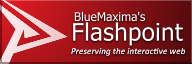
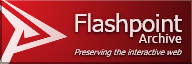
Move to root + more changes

Changed region(s): [[0.3438, 0.1875, 0.9688, 0.9062]]

diff --git a/Controllers/Platforms.php b/Controllers/Platforms.php
@@ -11,9 +11,9 @@ class Platforms extends Controller
      */
     public function process(array $args): bool
     {
-        self::$data['layout_title'] = 'Supported Platforms - BlueMaxima\'s Flashpoint';
-        self::$data['layout_description'] = 'A webgame preservation project and archive.';
-        self::$data['layout_keywords'] = 'Flash, Shockwave, HTML5, Unity, Webgame Preservation, Flash Game Archive, BlueMaxima, DarkMoe';
+        self::$data['layout_title'] = 'Supported Platforms - Flashpoint Archive';
+        self::$data['layout_description'] = 'A community effort to preserve games and animations from the web.';
+        self::$data['layout_keywords'] = 'Flash, Shockwave, HTML5, Unity, Archive, Webgame Preservation, Flash Game Archive, BlueMaxima, DarkMoe';
 
         self::$views[] = 'platforms';
         self::$dictionaries[] = 'platforms';

diff --git a/Controllers/Faq.php b/Controllers/Faq.php
@@ -11,9 +11,9 @@ class Faq extends Controller
      */
     public function process(array $args): bool
     {
-        self::$data['layout_title'] = 'Frequently Asked Questions - BlueMaxima\'s Flashpoint';
-        self::$data['layout_description'] = 'A webgame preservation project and archive.';
-        self::$data['layout_keywords'] = 'Flash, Shockwave, HTML5, Unity, Webgame Preservation, Flash Game Archive, BlueMaxima, DarkMoe';
+        self::$data['layout_title'] = 'Frequently Asked Questions - Flashpoint Archive';
+        self::$data['layout_description'] = 'A community effort to preserve games and animations from the web.';
+        self::$data['layout_keywords'] = 'Flash, Shockwave, HTML5, Unity, Archive, Webgame Preservation, Flash Game Archive, BlueMaxima, DarkMoe';
 
         self::$views[] = 'faq';
         self::$dictionaries[] = 'faq';

diff --git a/Controllers/Downloads.php b/Controllers/Downloads.php
@@ -11,9 +11,9 @@ class Downloads extends Controller
      */
     public function process(array $args): bool
     {
-        self::$data['layout_title'] = 'Downloads - BlueMaxima\'s Flashpoint';
-        self::$data['layout_description'] = 'A webgame preservation project and archive.';
-        self::$data['layout_keywords'] = 'Flash, Shockwave, HTML5, Unity, Webgame Preservation, Flash Game Archive, BlueMaxima, DarkMoe';
+        self::$data['layout_title'] = 'Downloads - Flashpoint Archive';
+        self::$data['layout_description'] = 'A community effort to preserve games and animations from the web.';
+        self::$data['layout_keywords'] = 'Flash, Shockwave, HTML5, Unity, Archive, Webgame Preservation, Flash Game Archive, BlueMaxima, DarkMoe';
 
         self::$views[] = 'downloads';
         self::$dictionaries[] = 'downloads';

diff --git a/Controllers/Branding.php b/Controllers/Branding.php
@@ -11,9 +11,9 @@ class Branding extends Controller
      */
     public function process(array $args): bool
     {
-        self::$data['layout_title'] = 'Branding - BlueMaxima\'s Flashpoint';
-        self::$data['layout_description'] = 'A webgame preservation project and archive.';
-        self::$data['layout_keywords'] = 'Flash, Shockwave, HTML5, Unity, Webgame Preservation, Flash Game Archive, BlueMaxima, DarkMoe';
+        self::$data['layout_title'] = 'Branding - Flashpoint Archive';
+        self::$data['layout_description'] = 'A community effort to preserve games and animations from the web.';
+        self::$data['layout_keywords'] = 'Flash, Shockwave, HTML5, Unity, Archive, Webgame Preservation, Flash Game Archive, BlueMaxima, DarkMoe';
 
         self::$views[] = 'branding';
         self::$dictionaries[] = 'branding';

diff --git a/Controllers/Source.php b/Controllers/Source.php
@@ -11,9 +11,9 @@ class Source extends Controller
      */
     public function process(array $args): bool
     {
-        self::$data['layout_title'] = 'Source Code - BlueMaxima\'s Flashpoint';
-        self::$data['layout_description'] = 'A webgame preservation project and archive.';
-        self::$data['layout_keywords'] = 'Flash, Shockwave, HTML5, Unity, Webgame Preservation, Flash Game Archive, BlueMaxima, DarkMoe';
+        self::$data['layout_title'] = 'Source Code - Flashpoint Archive';
+        self::$data['layout_description'] = 'A community effort to preserve games and animations from the web.';
+        self::$data['layout_keywords'] = 'Flash, Shockwave, HTML5, Unity, Archive, Webgame Preservation, Flash Game Archive, BlueMaxima, DarkMoe';
 
         self::$views[] = 'source';
         self::$dictionaries[] = 'source';

diff --git a/Controllers/Contact.php b/Controllers/Contact.php
@@ -11,9 +11,9 @@ class Contact extends Controller
      */
     public function process(array $args): bool
     {
-        self::$data['layout_title'] = 'Contact - BlueMaxima\'s Flashpoint';
-        self::$data['layout_description'] = 'A webgame preservation project and archive.';
-        self::$data['layout_keywords'] = 'Flash, Shockwave, HTML5, Unity, Webgame Preservation, Flash Game Archive, BlueMaxima, DarkMoe';
+        self::$data['layout_title'] = 'Contact - Flashpoint Archive';
+        self::$data['layout_description'] = 'A community effort to preserve games and animations from the web.';
+        self::$data['layout_keywords'] = 'Flash, Shockwave, HTML5, Unity, Archive, Webgame Preservation, Flash Game Archive, BlueMaxima, DarkMoe';
 
         self::$views[] = 'contact';
         self::$dictionaries[] = 'contact';

diff --git a/Controllers/Discord.php b/Controllers/Discord.php
@@ -11,9 +11,9 @@ class Discord extends Controller
      */
     public function process(array $args): bool
     {
-        self::$data['layout_title'] = 'Discord - BlueMaxima\'s Flashpoint';
-        self::$data['layout_description'] = 'A webgame preservation project and archive.';
-        self::$data['layout_keywords'] = 'Flash, Shockwave, HTML5, Unity, Webgame Preservation, Flash Game Archive, BlueMaxima, DarkMoe';
+        self::$data['layout_title'] = 'Discord - Flashpoint Archive';
+        self::$data['layout_description'] = 'A community effort to preserve games and animations from the web.';
+        self::$data['layout_keywords'] = 'Flash, Shockwave, HTML5, Unity, Archive, Webgame Preservation, Flash Game Archive, BlueMaxima, DarkMoe';
 
         self::$views[] = 'discord';
         self::$dictionaries[] = 'discord';

diff --git a/Controllers/News.php b/Controllers/News.php
@@ -11,9 +11,9 @@ class News extends Controller
      */
     public function process(array $args): bool
     {
-        self::$data['layout_title'] = 'News - BlueMaxima\'s Flashpoint';
-        self::$data['layout_description'] = 'A webgame preservation project and archive.';
-        self::$data['layout_keywords'] = 'Flash, Shockwave, HTML5, Unity, Webgame Preservation, Flash Game Archive, BlueMaxima, DarkMoe';
+        self::$data['layout_title'] = 'News - Flashpoint Archive';
+        self::$data['layout_description'] = 'A community effort to preserve games and animations from the web.';
+        self::$data['layout_keywords'] = 'Flash, Shockwave, HTML5, Unity, Archive, Webgame Preservation, Flash Game Archive, BlueMaxima, DarkMoe';
 
         self::$views[] = 'news';
         self::$dictionaries[] = 'news';

diff --git a/Controllers/Home.php b/Controllers/Home.php
@@ -11,9 +11,9 @@ class Home extends Controller
      */
     public function process(array $args): bool
     {
-        self::$data['layout_title'] = 'BlueMaxima\'s Flashpoint';
-        self::$data['layout_description'] = 'A webgame preservation project and archive.';
-        self::$data['layout_keywords'] = 'Flash, Shockwave, HTML5, Unity, Webgame Preservation, Flash Game Archive, BlueMaxima, DarkMoe';
+        self::$data['layout_title'] = 'Flashpoint Archive';
+        self::$data['layout_description'] = 'A community effort to preserve games and animations from the web.';
+        self::$data['layout_keywords'] = 'Flash, Shockwave, HTML5, Unity, Archive, Webgame Preservation, Flash Game Archive, BlueMaxima, DarkMoe';
 
         self::$views[] = 'home';
         self::$dictionaries[] = 'home';

diff --git a/Controllers/Rooter.php b/Controllers/Rooter.php
@@ -19,7 +19,7 @@ class Rooter extends Controller
     {
         $url = $args[0];
         $url = strtok($url, '?'); //Remove the query string
-        $url = preg_replace('/^\/flashpoint\//', '', $url); //Remove containing directory from string
+        $url = preg_replace('/^\//', '', $url); //Remove containing directory from string
         $urlArguments = explode('/', $url); //Split the arguments
 
         $firstArgument = array_shift($urlArguments); //Get the first argument

diff --git a/Models/LanguageHandler.php b/Models/LanguageHandler.php
@@ -74,7 +74,7 @@ class LanguageHandler
      */
     private function setLanguageCookie(string $languageCode): bool
     {
-        return setcookie('lang', $languageCode, time() + 60 * 60 * 24 * 365, '/flashpoint', '', false, true); //Cookie expires in 1 year
+        return setcookie('lang', $languageCode, time() + 60 * 60 * 24 * 365, '/', '', false, true); //Cookie expires in 1 year
     }
 
     /**
